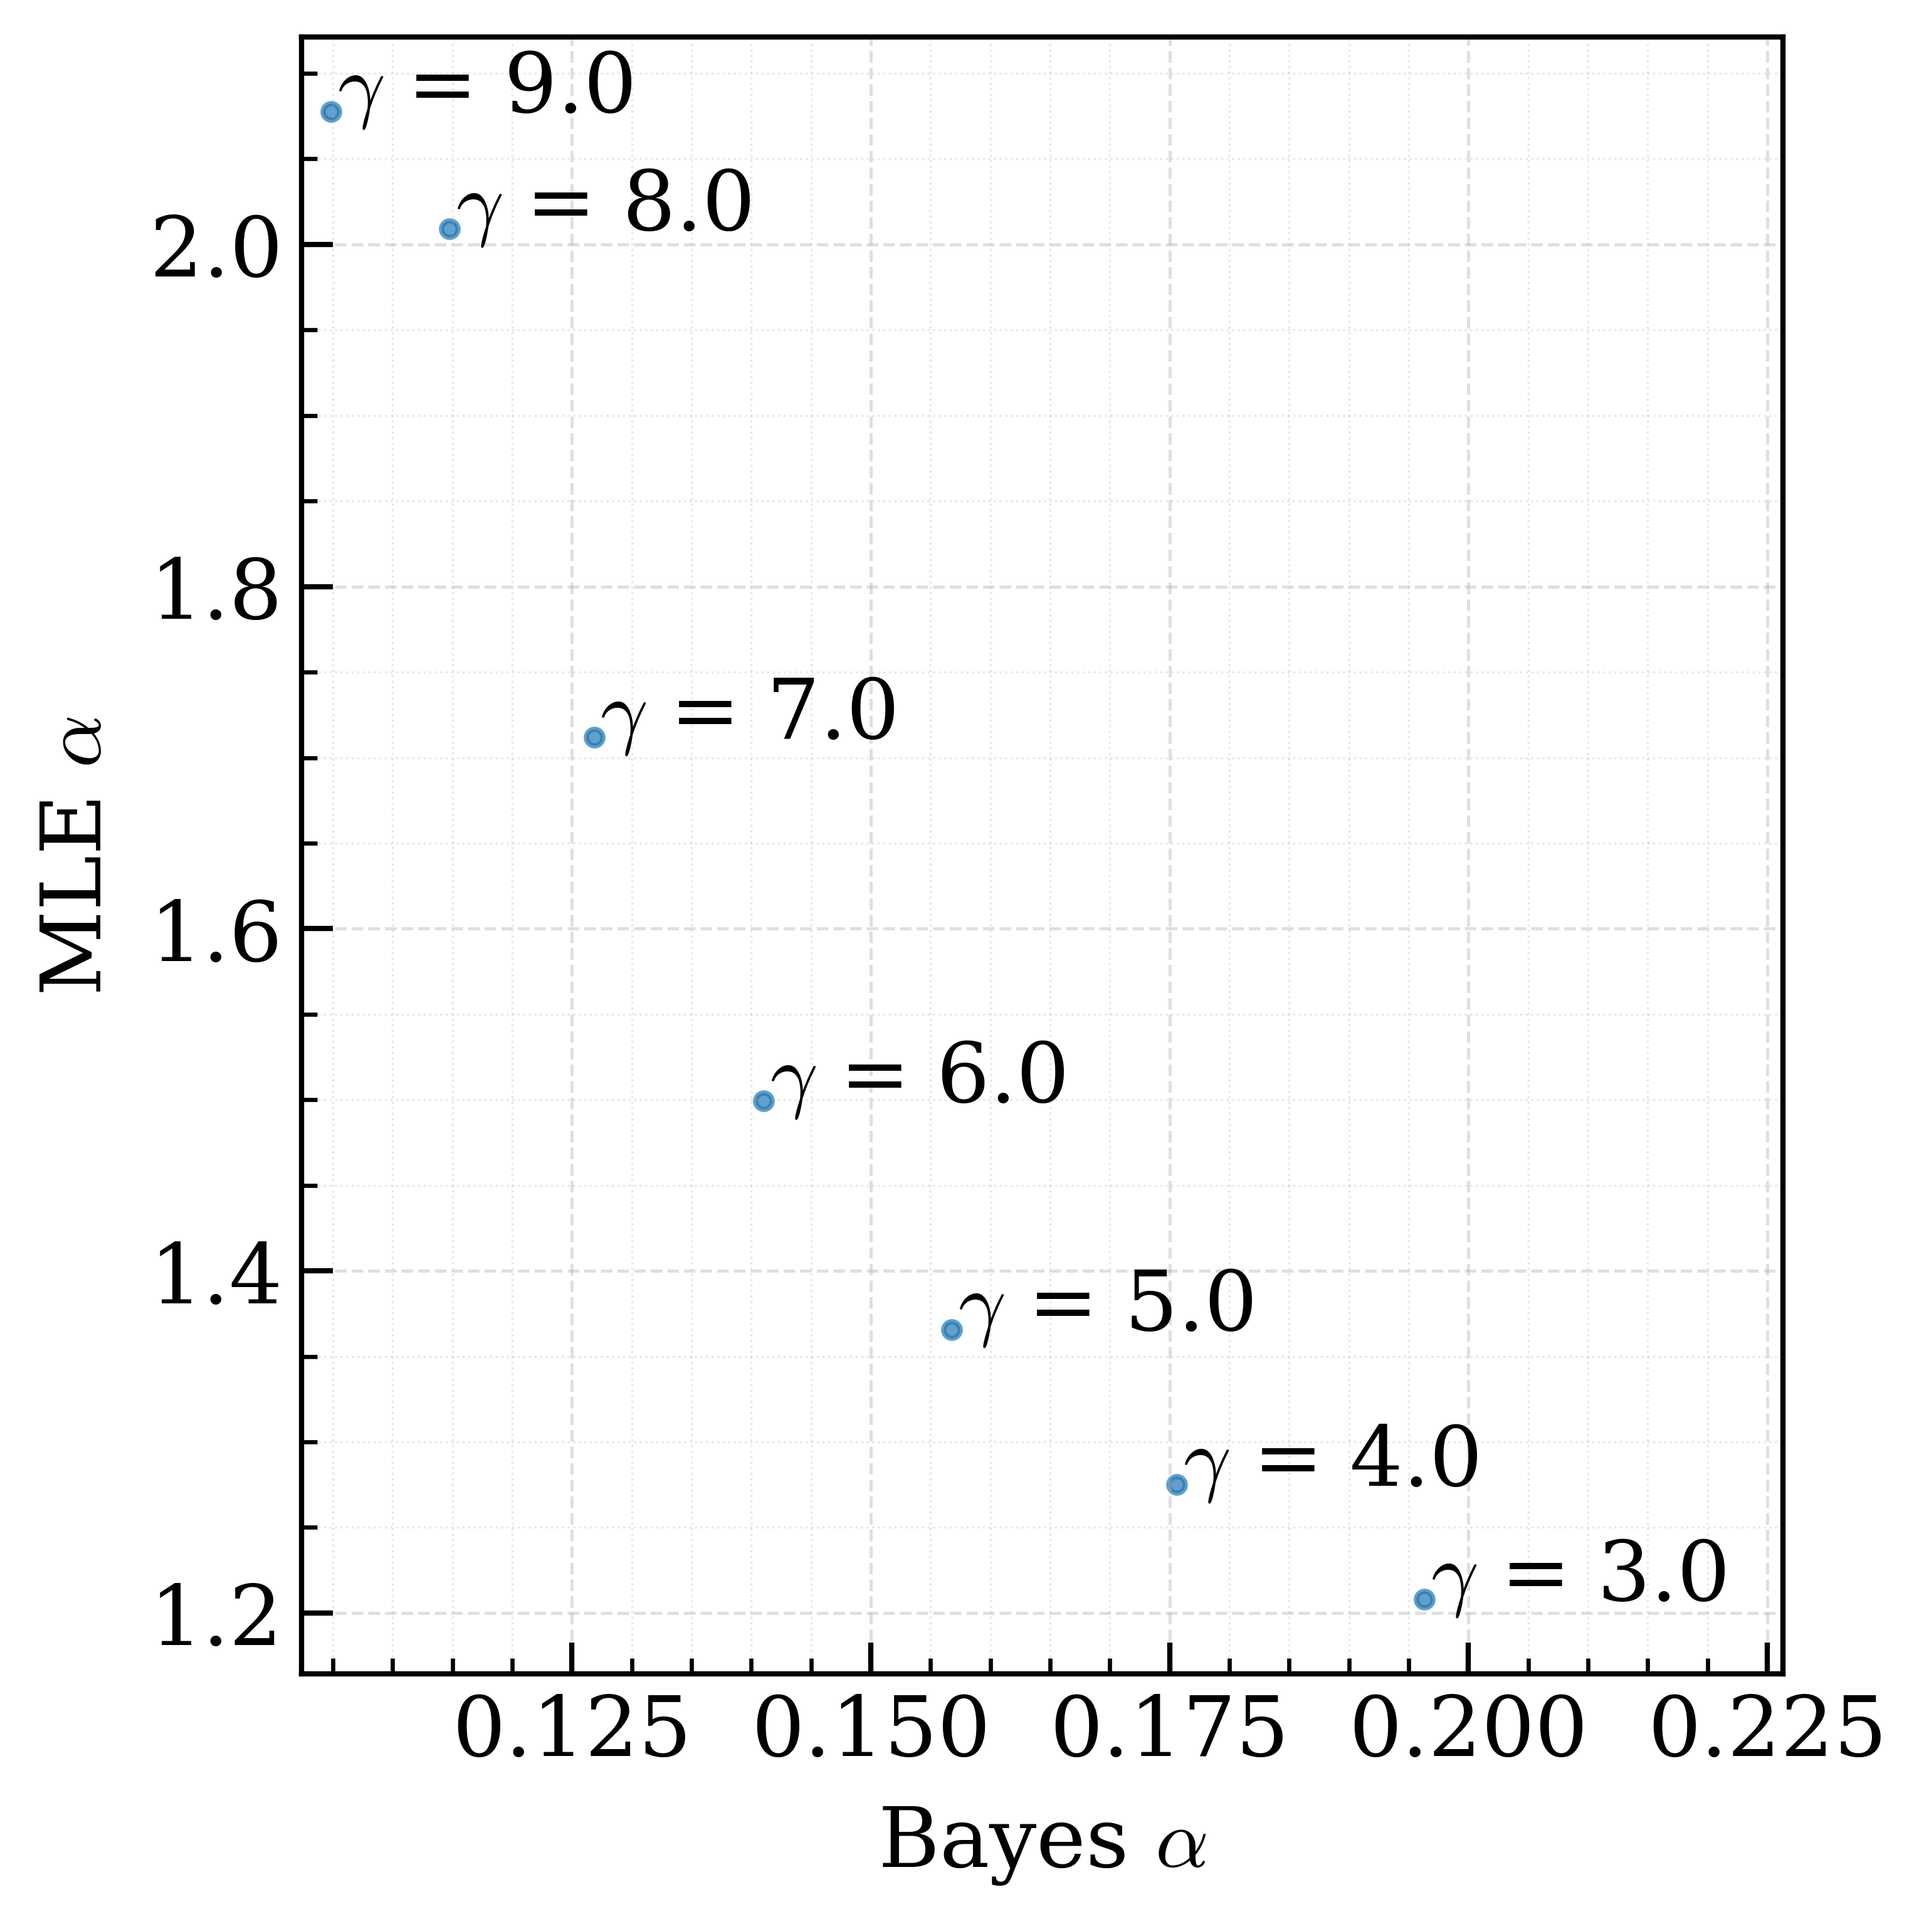
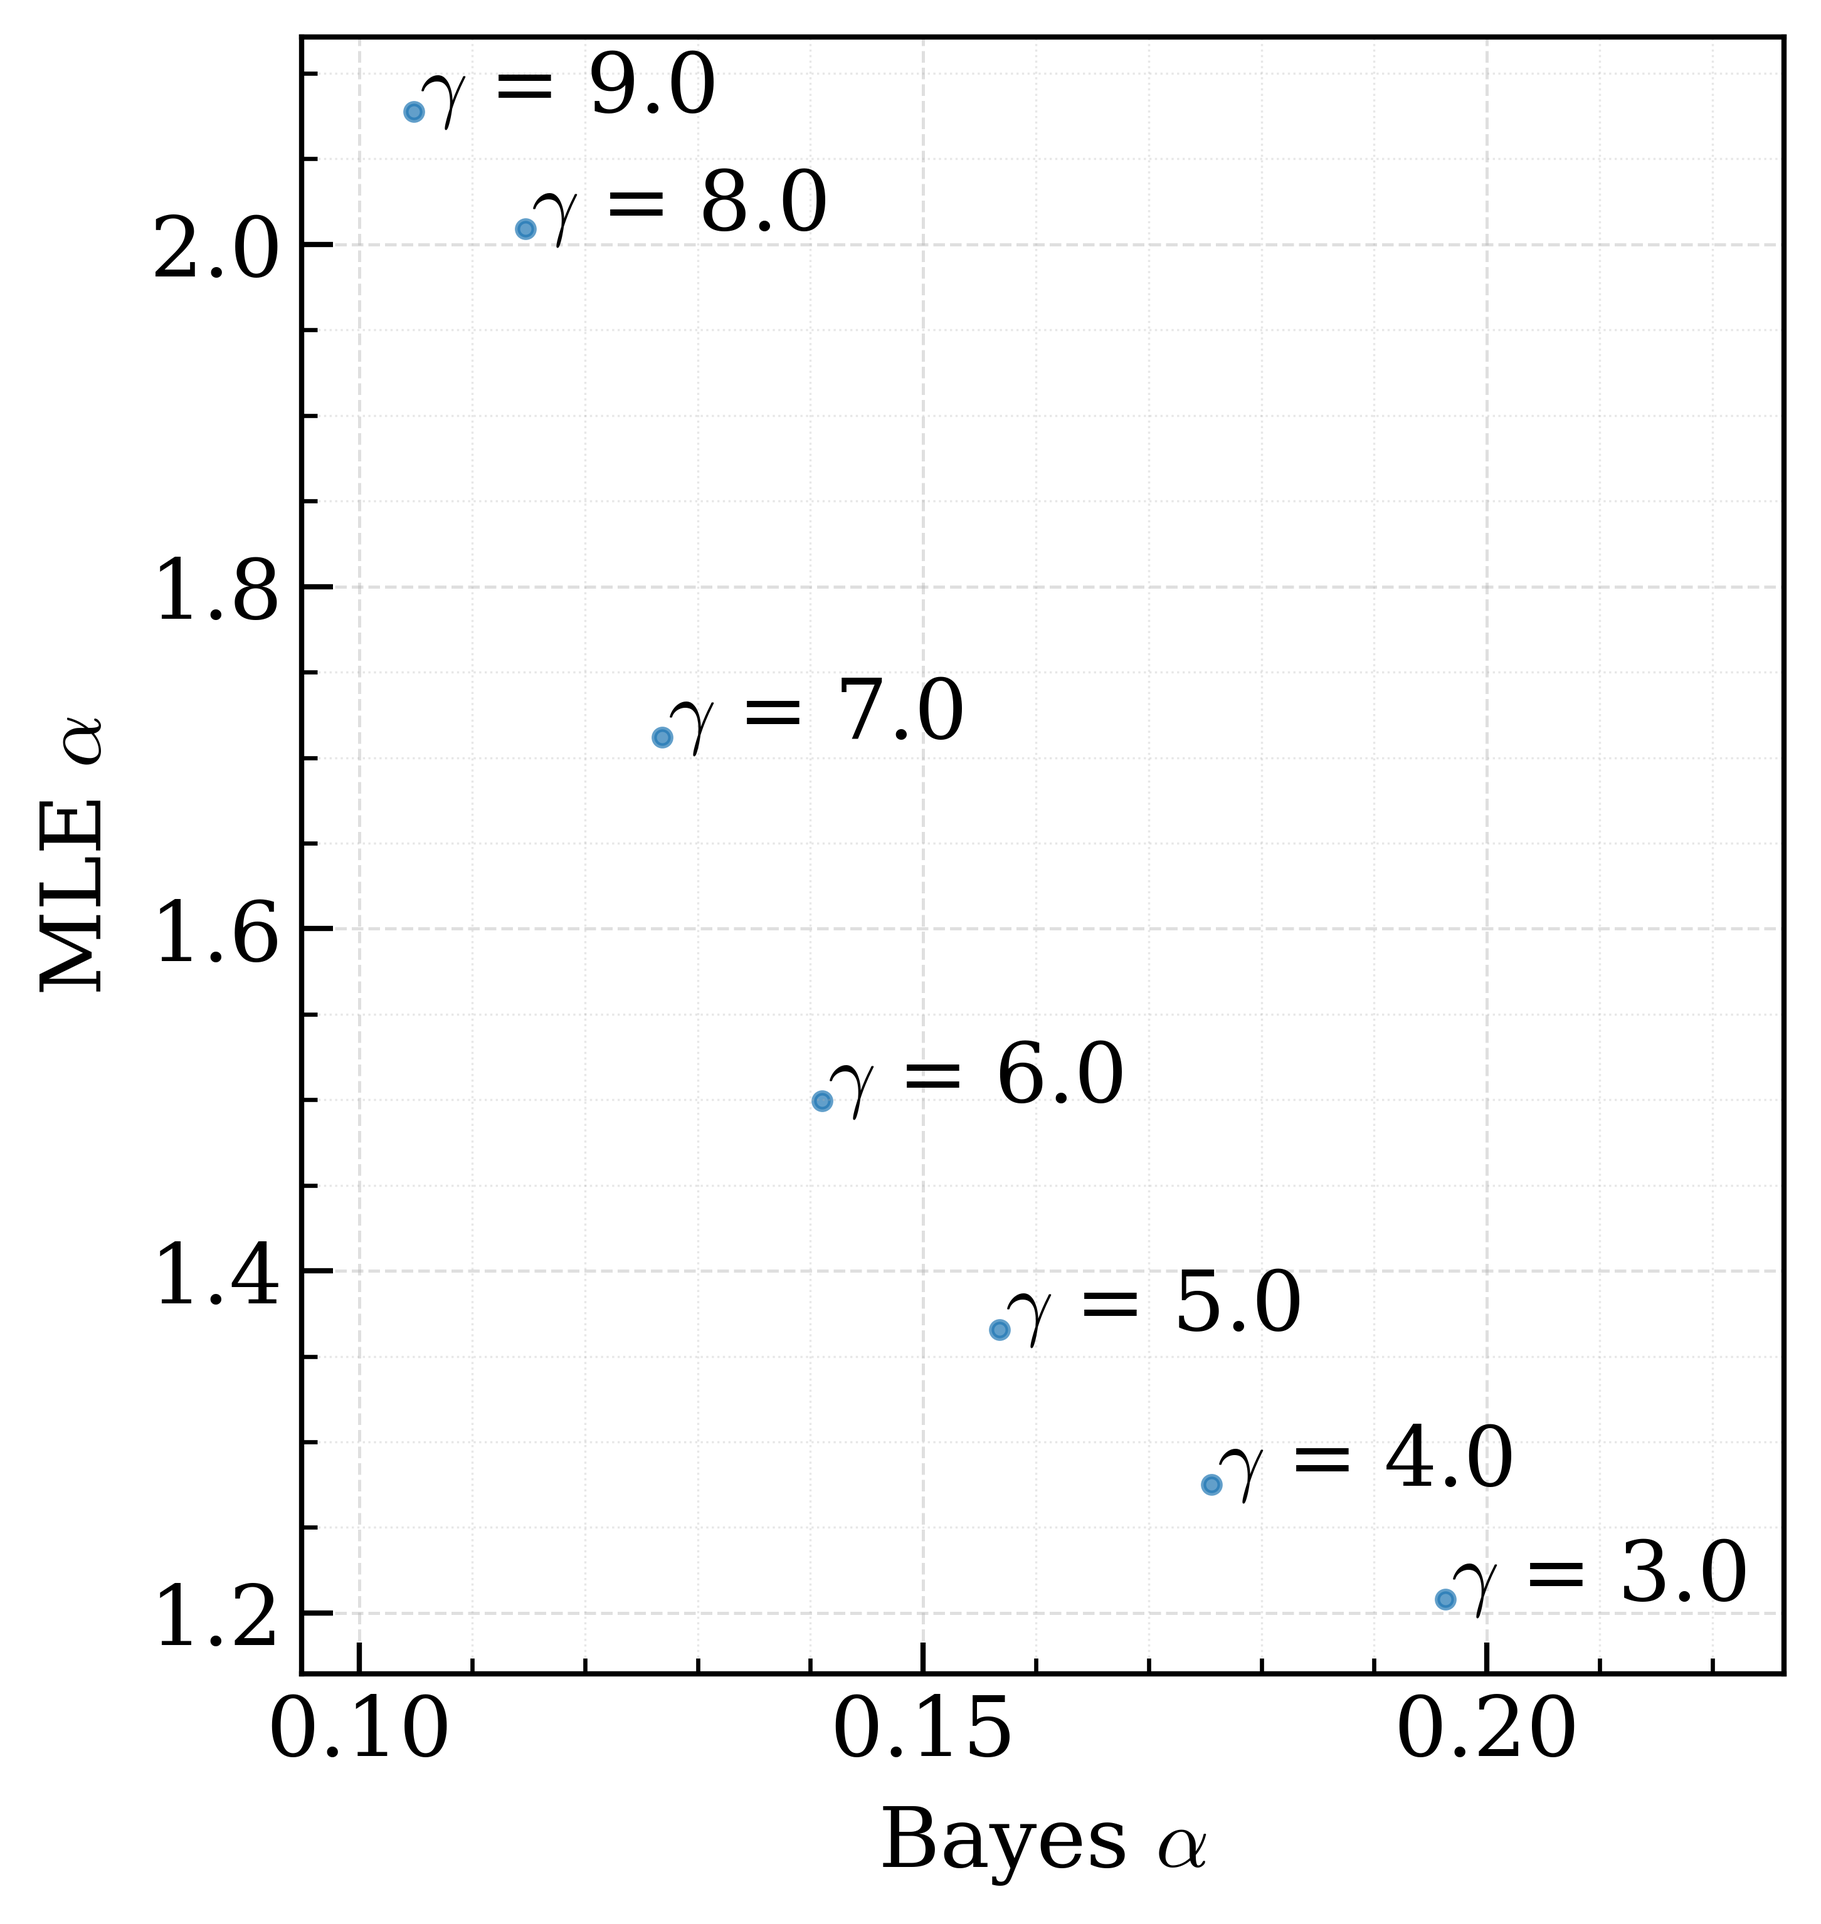
Updated graphs

diff --git a/simulation-scripts/mle_bayes_comparison_graph.py b/simulation-scripts/mle_bayes_comparison_graph.py
@@ -20,8 +20,6 @@ assert graph_type in ["alpha","sigma","mse","debiased"], "Nos valid type of grap
 file_path = "./simulation-results/comparison_mle_bayes_"+variable+".csv"
 data = np.loadtxt(file_path, delimiter=',',skiprows=1)
 
-variable_value = data[:,variable_map[variable]]
-
 mpl.rcParams.update({
     "text.usetex": False,                 # keep it lightweight
     "mathtext.fontset": "cm",             # Computer Modern for math
@@ -39,11 +37,13 @@ mpl.rcParams.update({
 })
 
 if data_map[graph_type] < 5:
+    variable_value = data[:, variable_map[variable]]
     data_mle = data[:,data_map[graph_type]]
     data_bayes = data[:,data_map[graph_type]+3]
 else:
-    data_mle = (data[:,3]/data[:,2])**2
-    data_bayes = (data[:, 6] / data[:, 5]) ** 2
+    variable_value = data[:-1, variable_map[variable]]
+    data_mle = (data[:-1,3]/data[:-1,2])**2
+    data_bayes = (data[:-1, 6] / data[:-1, 5]) ** 2
 
 if variable == "kappa":
     symbol2 = r"$\kappa$"
@@ -72,12 +72,12 @@ ax.tick_params(which="both", direction="in")
 ax.tick_params(which="major", length=6, width=1)
 ax.tick_params(which="minor", length=3, width=0.8)
 
-plt.xlim(np.min(data_bayes)-0.004, np.max(data_bayes)+0.03)
+plt.xlim(np.min(data_bayes)-0.05, np.max(data_bayes)+0.28)
 
 ax.scatter(data_bayes,data_mle,s=10, alpha=0.7)
 
 for i in range(len(variable_value)):
-    plt.text(data_bayes[i] + 0.0005, data_mle[i], symbol2+" = "+str(variable_value[i]))
+    plt.text(data_bayes[i] + 0.003, data_mle[i], symbol2+" = "+str(variable_value[i]))
 
 fname = f"comparison_mle_bayes_{graph_type}_{variable}.png"
 plt.savefig(fname, bbox_inches="tight", facecolor="white")

diff --git a/simulation-scripts/mse_vs_kappa_graph.py b/simulation-scripts/mse_vs_kappa_graph.py
@@ -52,7 +52,7 @@ mse_poly = poly(kappa_fine)
 
 ax.plot(
     kappa_fine, mse_poly,
-    '--', color='red', linewidth=2, label='Smooth trend'
+    '--', color='red', linewidth=2
 )
 
 ax.grid(which="major", linestyle="--", linewidth=0.6, alpha=0.4)
